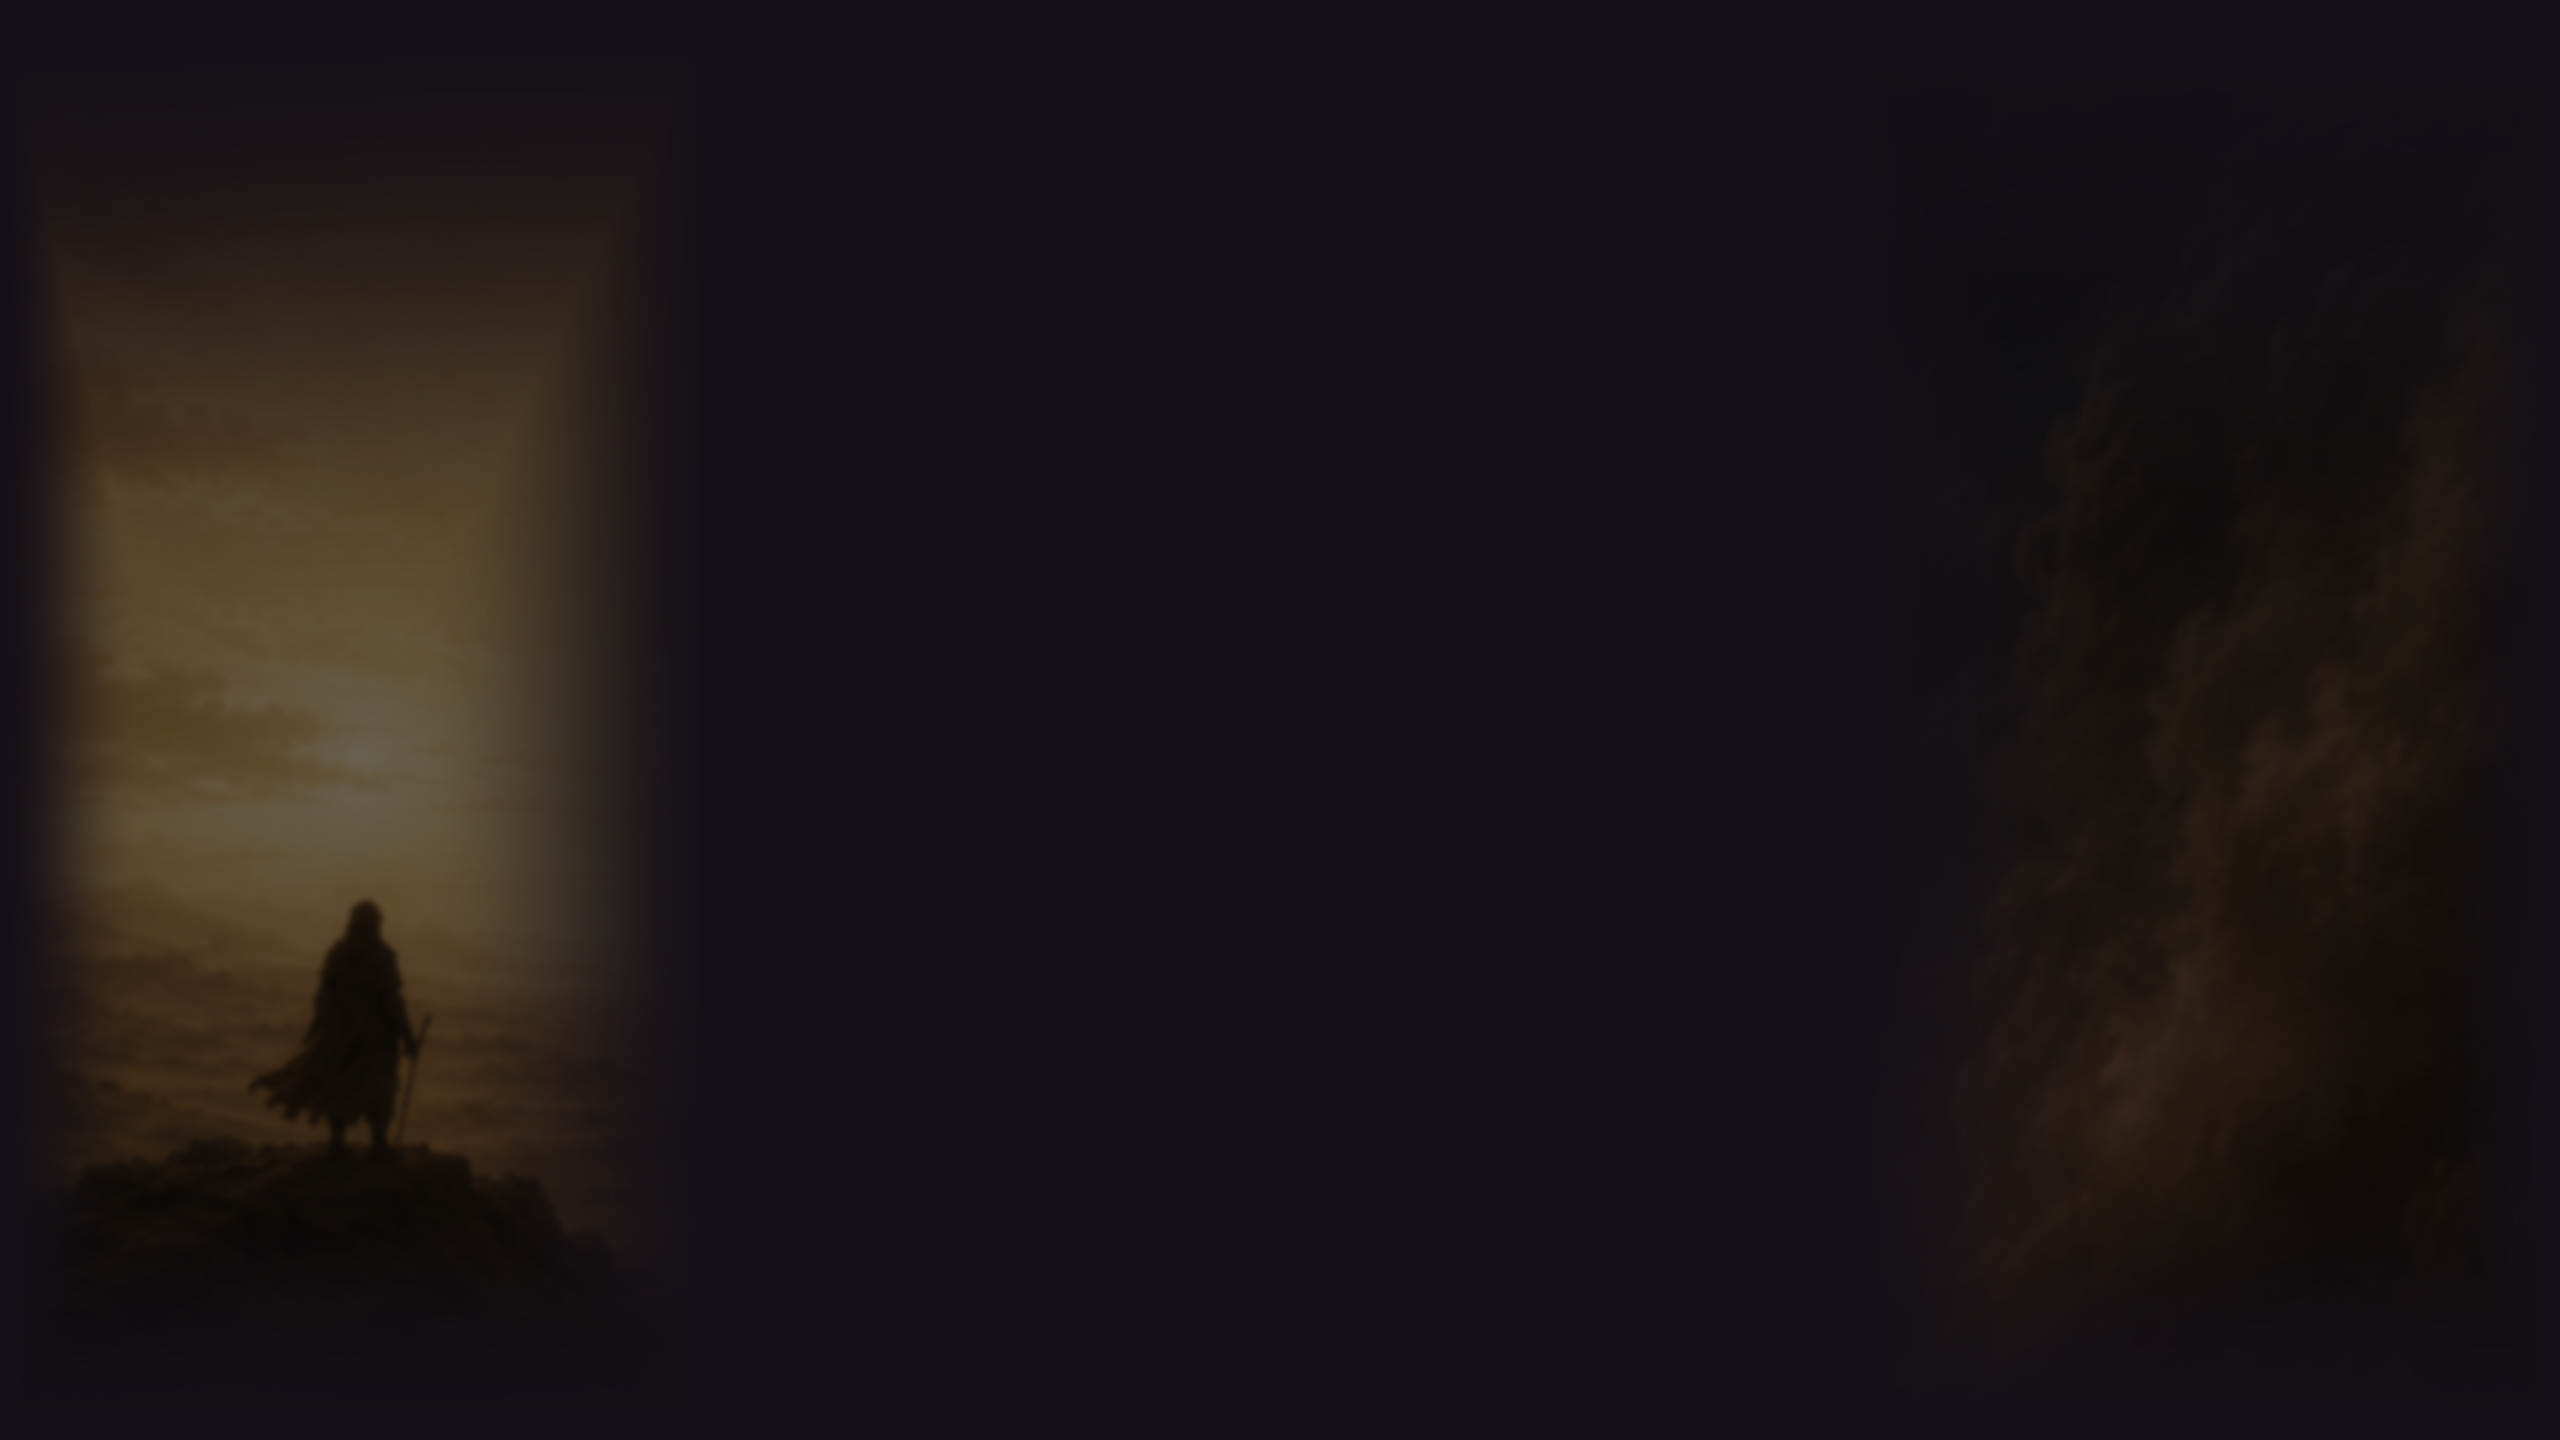
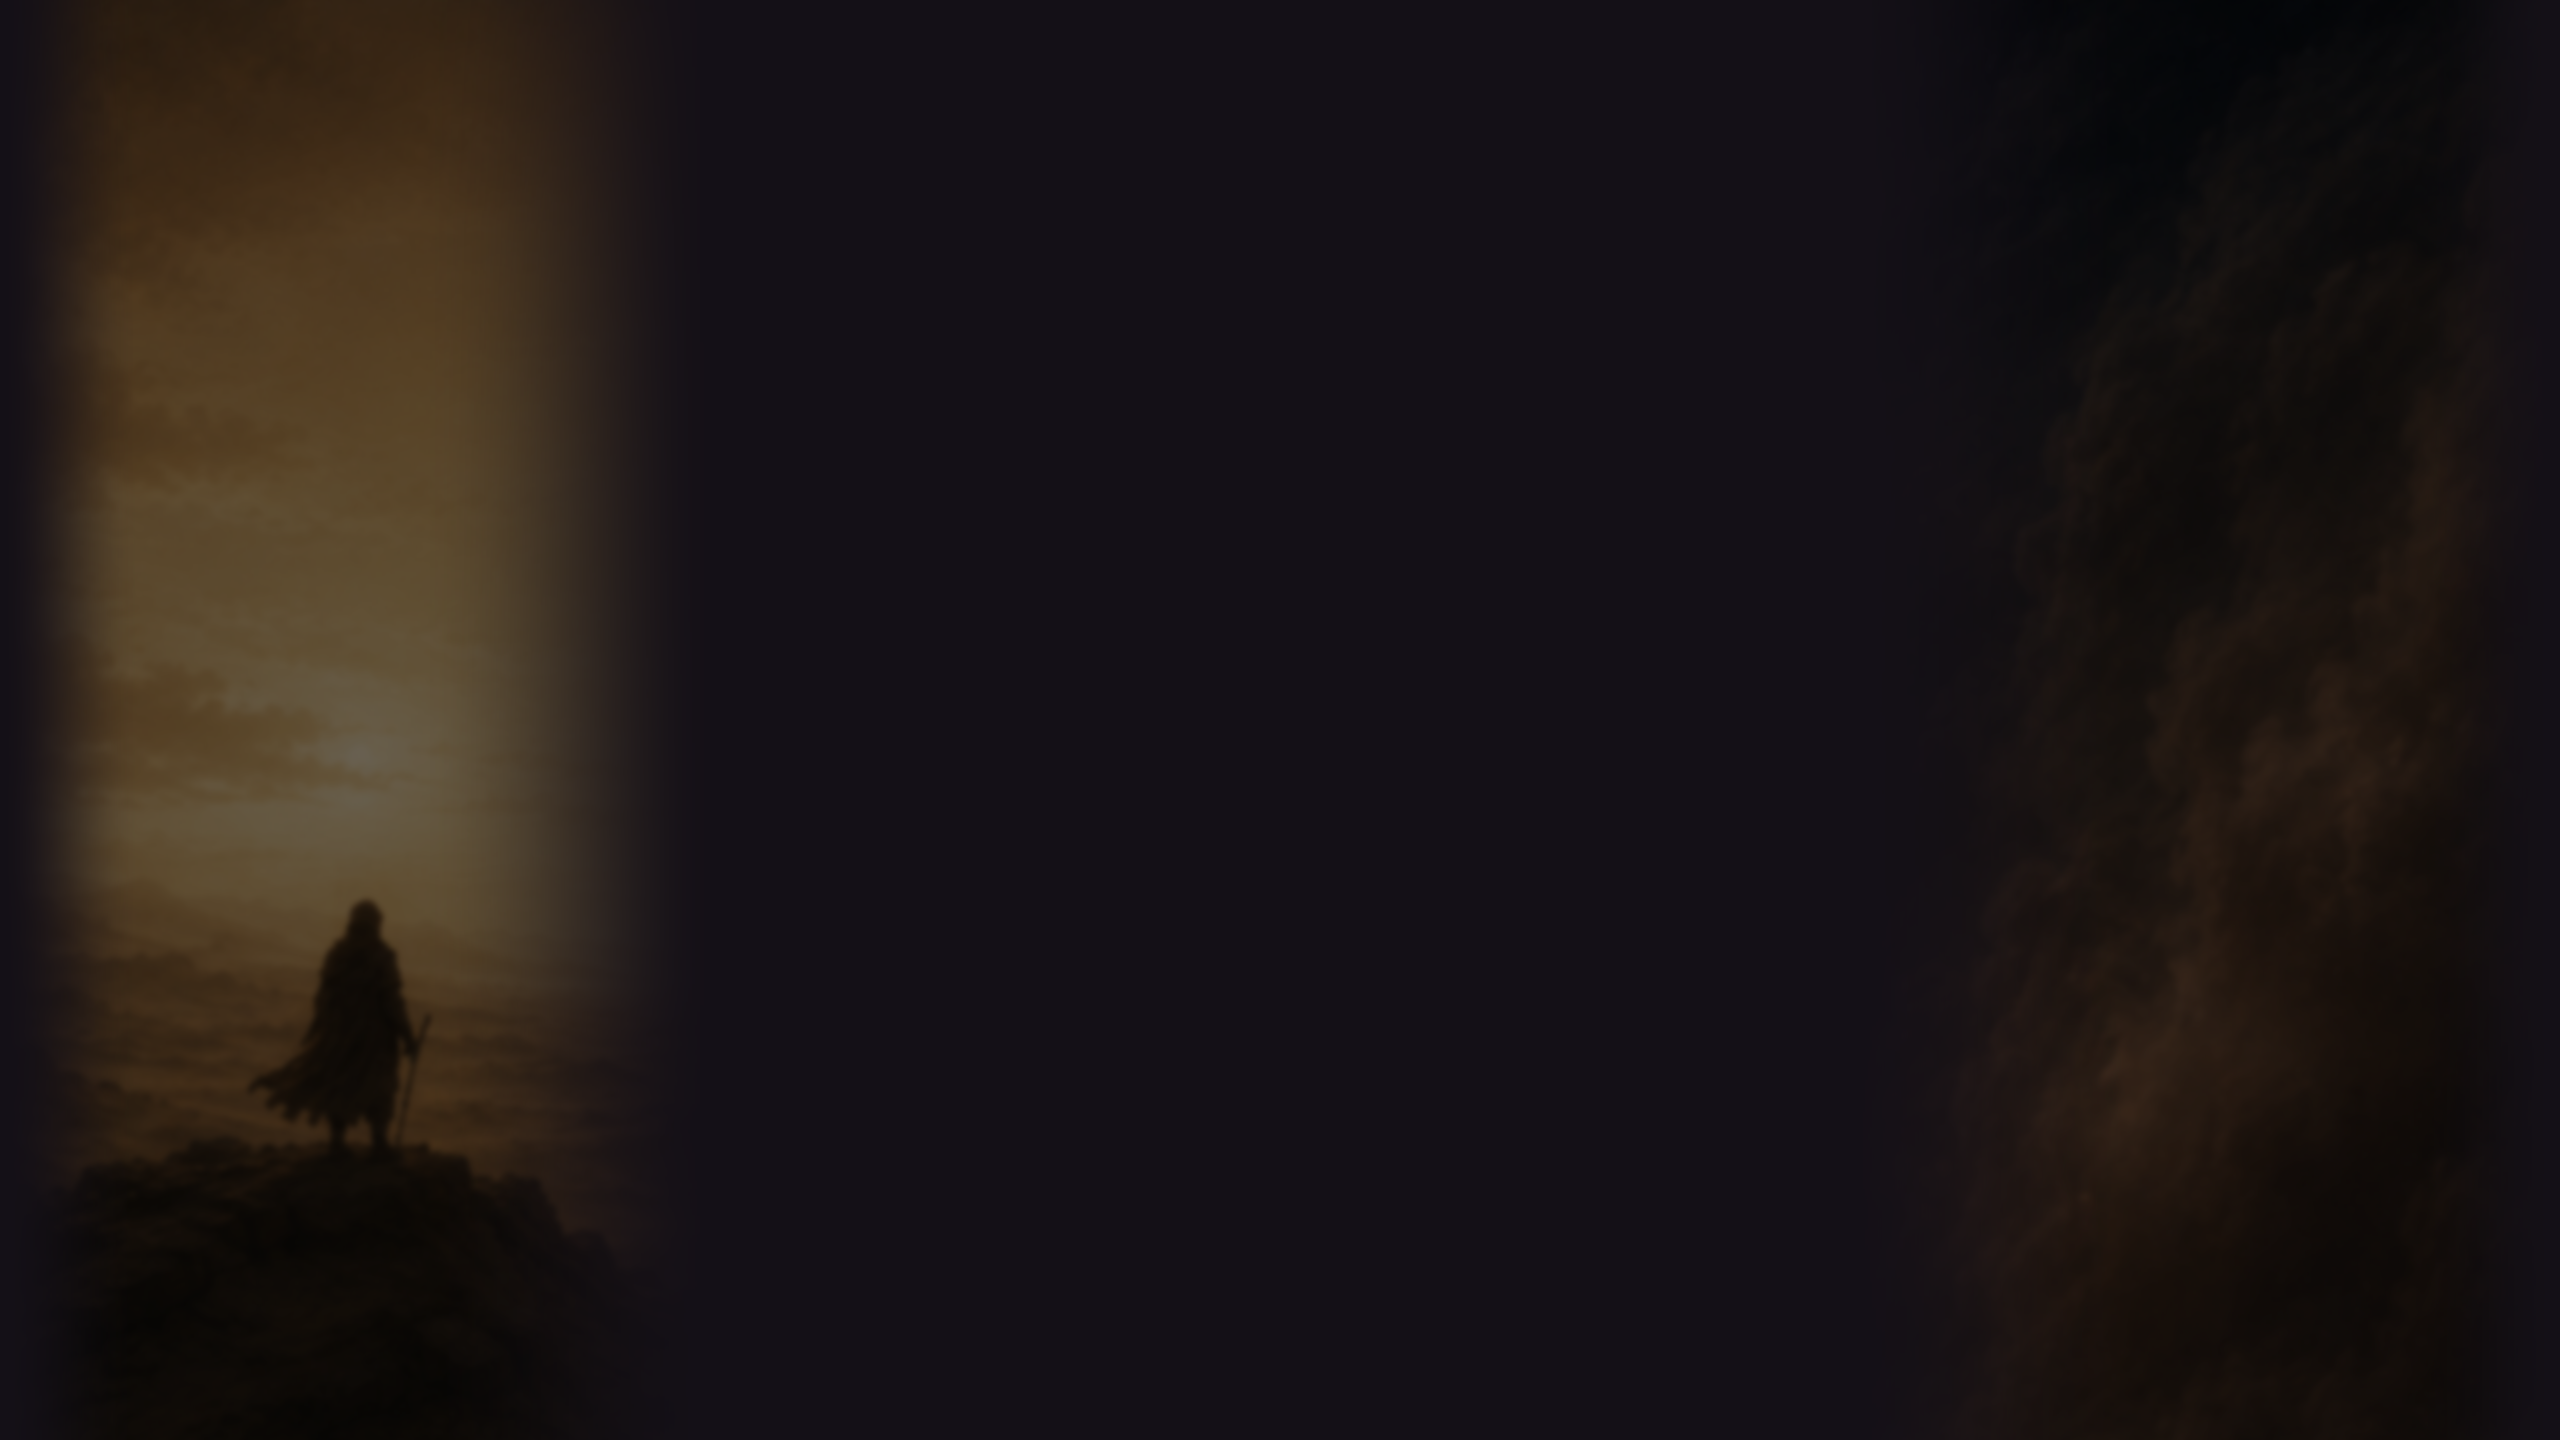
feat(promo): itch 배경 v6 — 세로 용해 제거, 띠 위아래 풀블리드
- v5 찌그러짐 원인 = 세로 용해 과잉(창이 이미지보다 좁아 용해 곡선만 잔존)
- 그림이 화면 밖으로 이어지는 인상으로 교정, 상단 명암은 그림 스스로 담당
- 가로 용해만 유지: 안쪽 300(어둠 채널) + 바깥 140(2560 초과 창 보험)

Claude-Session: 8a9f2216-cb00-4bee-b0aa-c43009bfe99c

Changed region(s): [[0.0312, 0.0, 0.2188, 0.25]]

diff --git a/itch_업로드/README.md b/itch_업로드/README.md
@@ -40,10 +40,11 @@
   ① **그림 띠는 좌우 끝 720px 씩만, 가운데 1120px 는 민바닥** — 배경도 본문 칸도 둘 다 화면
   중앙 정렬이라, 창 폭과 무관하게 본문(중앙 ~750px) 양옆에 항상 어둠 채널이 남는다
   ("가운데 어두운 부분을 넓혀야" 피드백 반영. 왼쪽 = 노을의 대장, 오른쪽 = 폭풍 벽).
-  ② 모든 가장자리를 **#141017 로 완전 용해** — 작은 창에서는 여백부터 잘려 나가는데
-  잘린 자리가 전부 같은 색이라 어떤 해상도에서도 경계선이 없다.
-  ③ **위쪽은 특히 길게 용해** — 페이지 상단(배너 높이)에선 양옆도 거의 배경색이라 배너의 녹은
-  가장자리와 색이 이어지고, 그림은 스크롤 중간부터 배어 나온다(상단 색 안 맞는다는 피드백 반영).
+  ② 띠는 **위아래 풀블리드**(세로 용해 없음) — 창이 이미지보다 좁으면 가장자리부터 잘리는데,
+  세로 용해가 있으면 잘린 용해 곡선만 남아 그림이 오목하게 쪼그라들어 보인다(실측 피드백).
+  그림이 화면 밖으로 이어지는 인상이 정답. 위쪽이 조용한 건 그림 자체 명암(어두운 구름·폭풍) 몫.
+  ③ 가로 용해만 두 겹 — **안쪽 300px**(어둠 채널로 연결), **바깥 140px**(2560 보다 넓은 창에서
+  이미지 경계 세로 줄 방지 보험. 좁은 창에선 잘려 나가 무해).
 - **Colors**: **전부 `#141017` 로 통일** — BG · BG 2(본문 칸, Alpha 오른쪽 끝 불투명) 모두.
   배경 그림의 용해 색과 같아서 경계선이 어디에도 안 생긴다. Text `#F6ECD4` · Link `#D6B278`
 - **Font**: Serif · Size Large
